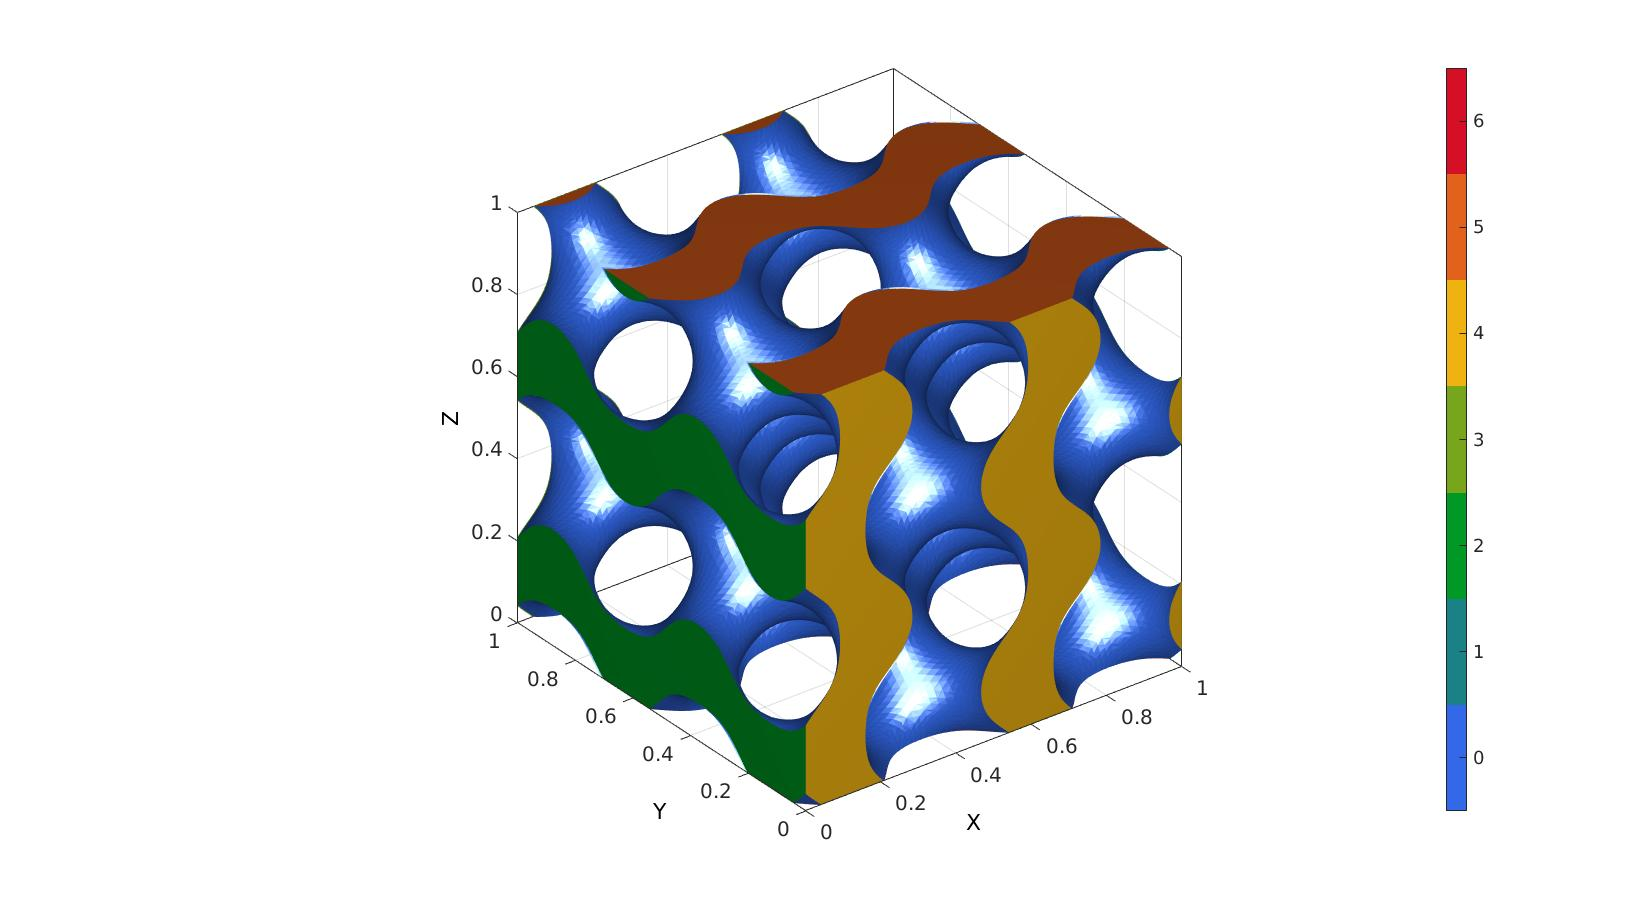
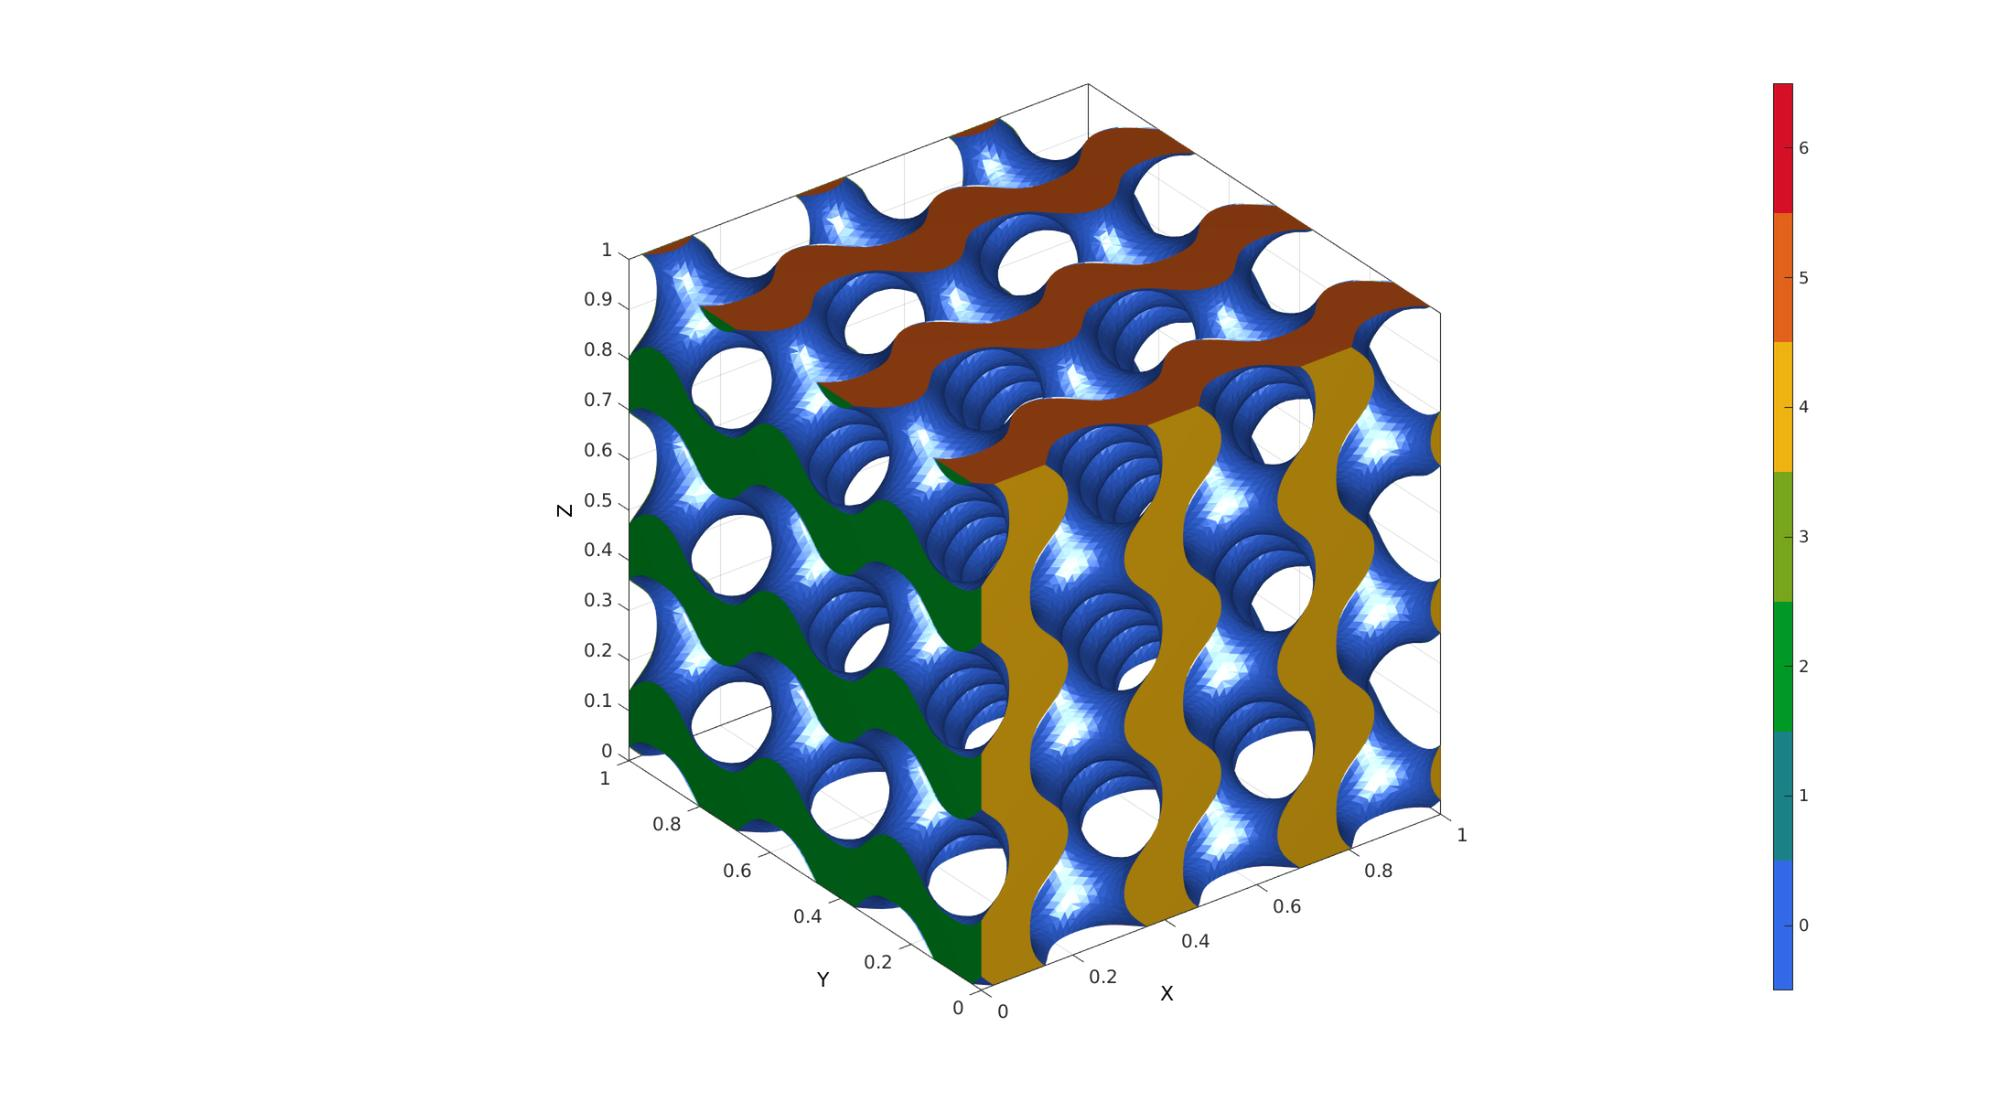
Updated triply periodic minimal surface help

diff --git a/docs/html/HELP_triplyPeriodicMinimalSurface.html b/docs/html/HELP_triplyPeriodicMinimalSurface.html
@@ -6,7 +6,7 @@
    <!--
 This HTML was auto-generated from MATLAB code.
 To make changes, update the MATLAB code and republish this document.
-      --><title>triplyPeriodicMinimalSurface</title><meta name="generator" content="MATLAB 9.8"><link rel="schema.DC" href="http://purl.org/dc/elements/1.1/"><meta name="DC.date" content="2020-11-05"><meta name="DC.source" content="HELP_triplyPeriodicMinimalSurface.m"><style type="text/css">
+      --><title>triplyPeriodicMinimalSurface</title><meta name="generator" content="MATLAB 9.8"><link rel="schema.DC" href="http://purl.org/dc/elements/1.1/"><meta name="DC.date" content="2020-11-12"><meta name="DC.source" content="HELP_triplyPeriodicMinimalSurface.m"><style type="text/css">
 html,body,div,span,applet,object,iframe,h1,h2,h3,h4,h5,h6,p,blockquote,pre,a,abbr,acronym,address,big,cite,code,del,dfn,em,font,img,ins,kbd,q,s,samp,small,strike,strong,sub,sup,tt,var,b,u,i,center,dl,dt,dd,ol,ul,li,fieldset,form,label,legend,table,caption,tbody,tfoot,thead,tr,th,td{margin:0;padding:0;border:0;outline:0;font-size:100%;vertical-align:baseline;background:transparent}body{line-height:1}ol,ul{list-style:none}blockquote,q{quotes:none}blockquote:before,blockquote:after,q:before,q:after{content:'';content:none}:focus{outine:0}ins{text-decoration:none}del{text-decoration:line-through}table{border-collapse:collapse;border-spacing:0}
 
 html { min-height:100%; margin-bottom:1px; }
@@ -79,9 +79,9 @@ inputStruct.Ns=80; <span class="comment">% number of sampling points</span>
 inputStruct.anisotropyFactors=[1 1 1];
 inputStruct.isocap=1; <span class="comment">%Option to cap the isosurface</span>
 inputStruct.surfaceCase=<span class="string">'g'</span>; <span class="comment">%Surface type</span>
-inputStruct.numPeriods=[2 2 2]; <span class="comment">%Number of periods in each direction</span>
+inputStruct.numPeriods=[3 3 3]; <span class="comment">%Number of periods in each direction</span>
 inputStruct.levelset=0.5; <span class="comment">%Isosurface level</span>
-</pre><p>Create stochastic structure</p><pre class="codeinput">[F,V,C]=triplyPeriodicMinimalSurface(inputStruct);
+</pre><p>Create triply periodic minimal surface</p><pre class="codeinput">[F,V,C]=triplyPeriodicMinimalSurface(inputStruct);
 </pre><p>Using grouping to keep only largest group</p><pre class="codeinput">groupOptStruct.outputType=<span class="string">'label'</span>;
 [G,~,groupSize]=tesgroup(F,groupOptStruct); <span class="comment">%Group connected faces</span>
 [~,indKeep]=max(groupSize); <span class="comment">%Index of largest group</span>
@@ -117,7 +117,7 @@ gpatch(F,V,<span class="string">'kw'</span>,<span class="string">'none'</span>);
 gpatch(Eb,V,[],<span class="string">'b'</span>,1,2);
 axisGeom; camlight <span class="string">headlight</span>;
 gdrawnow;
-</pre><img width="100%" height="auto" vspace="5" hspace="5" src="HELP_triplyPeriodicMinimalSurface_02.jpg" alt=""> <img width="100%" height="auto" vspace="5" hspace="5" src="HELP_triplyPeriodicMinimalSurface_03.jpg" alt=""> <p><img vspace="5" hspace="5" src="gibbVerySmall.gif" alt=""> </p><p><i><b>GIBBON</b></i> <a href="www.gibboncode.org">www.gibboncode.org</a></p><p><i>Kevin Mattheus Moerman</i>, <a href="gibbon.toolbox@gmail.com">gibbon.toolbox@gmail.com</a></p><p><i><b>GIBBON footer text</b></i></p><p>License: <a href="https://github.com/gibbonCode/GIBBON/blob/master/LICENSE">https://github.com/gibbonCode/GIBBON/blob/master/LICENSE</a></p><p>GIBBON: The Geometry and Image-based Bioengineering add-On. A toolbox for image segmentation, image-based modeling, meshing, and finite element analysis.</p><p>Copyright (C) 2006-2020 Kevin Mattheus Moerman</p><p>This program is free software: you can redistribute it and/or modify it under the terms of the GNU General Public License as published by the Free Software Foundation, either version 3 of the License, or (at your option) any later version.</p><p>This program is distributed in the hope that it will be useful, but WITHOUT ANY WARRANTY; without even the implied warranty of MERCHANTABILITY or FITNESS FOR A PARTICULAR PURPOSE.  See the GNU General Public License for more details.</p><p>You should have received a copy of the GNU General Public License along with this program.  If not, see <a href="http://www.gnu.org/licenses/">http://www.gnu.org/licenses/</a>.</p><p class="footer"><br><a href="https://www.mathworks.com/products/matlab/">Published with MATLAB&reg; R2020a</a><br></p></div><!--
+</pre><img width="100%" height="auto" vspace="5" hspace="5" src="HELP_triplyPeriodicMinimalSurface_02.jpg" alt=""> <p><img vspace="5" hspace="5" src="gibbVerySmall.gif" alt=""> </p><p><i><b>GIBBON</b></i> <a href="www.gibboncode.org">www.gibboncode.org</a></p><p><i>Kevin Mattheus Moerman</i>, <a href="gibbon.toolbox@gmail.com">gibbon.toolbox@gmail.com</a></p><p><i><b>GIBBON footer text</b></i></p><p>License: <a href="https://github.com/gibbonCode/GIBBON/blob/master/LICENSE">https://github.com/gibbonCode/GIBBON/blob/master/LICENSE</a></p><p>GIBBON: The Geometry and Image-based Bioengineering add-On. A toolbox for image segmentation, image-based modeling, meshing, and finite element analysis.</p><p>Copyright (C) 2006-2020 Kevin Mattheus Moerman</p><p>This program is free software: you can redistribute it and/or modify it under the terms of the GNU General Public License as published by the Free Software Foundation, either version 3 of the License, or (at your option) any later version.</p><p>This program is distributed in the hope that it will be useful, but WITHOUT ANY WARRANTY; without even the implied warranty of MERCHANTABILITY or FITNESS FOR A PARTICULAR PURPOSE.  See the GNU General Public License for more details.</p><p>You should have received a copy of the GNU General Public License along with this program.  If not, see <a href="http://www.gnu.org/licenses/">http://www.gnu.org/licenses/</a>.</p><p class="footer"><br><a href="https://www.mathworks.com/products/matlab/">Published with MATLAB&reg; R2020a</a><br></p></div><!--
 ##### SOURCE BEGIN #####
 %% triplyPeriodicMinimalSurface
 % Below is a demonstration of the features of the |triplyPeriodicMinimalSurface| function
@@ -159,12 +159,11 @@ inputStruct.Ns=80; % number of sampling points
 inputStruct.anisotropyFactors=[1 1 1]; 
 inputStruct.isocap=1; %Option to cap the isosurface
 inputStruct.surfaceCase='g'; %Surface type
-inputStruct.numPeriods=[2 2 2]; %Number of periods in each direction
+inputStruct.numPeriods=[3 3 3]; %Number of periods in each direction
 inputStruct.levelset=0.5; %Isosurface level
 
 %% 
-% Create stochastic structure
-
+% Create triply periodic minimal surface
 [F,V,C]=triplyPeriodicMinimalSurface(inputStruct);
 
 %%

diff --git a/docs/HELP_triplyPeriodicMinimalSurface.m b/docs/HELP_triplyPeriodicMinimalSurface.m
@@ -38,12 +38,11 @@ inputStruct.Ns=80; % number of sampling points
 inputStruct.anisotropyFactors=[1 1 1]; 
 inputStruct.isocap=1; %Option to cap the isosurface
 inputStruct.surfaceCase='g'; %Surface type
-inputStruct.numPeriods=[2 2 2]; %Number of periods in each direction
+inputStruct.numPeriods=[3 3 3]; %Number of periods in each direction
 inputStruct.levelset=0.5; %Isosurface level
 
 %% 
-% Create stochastic structure
-
+% Create triply periodic minimal surface
 [F,V,C]=triplyPeriodicMinimalSurface(inputStruct);
 
 %%
